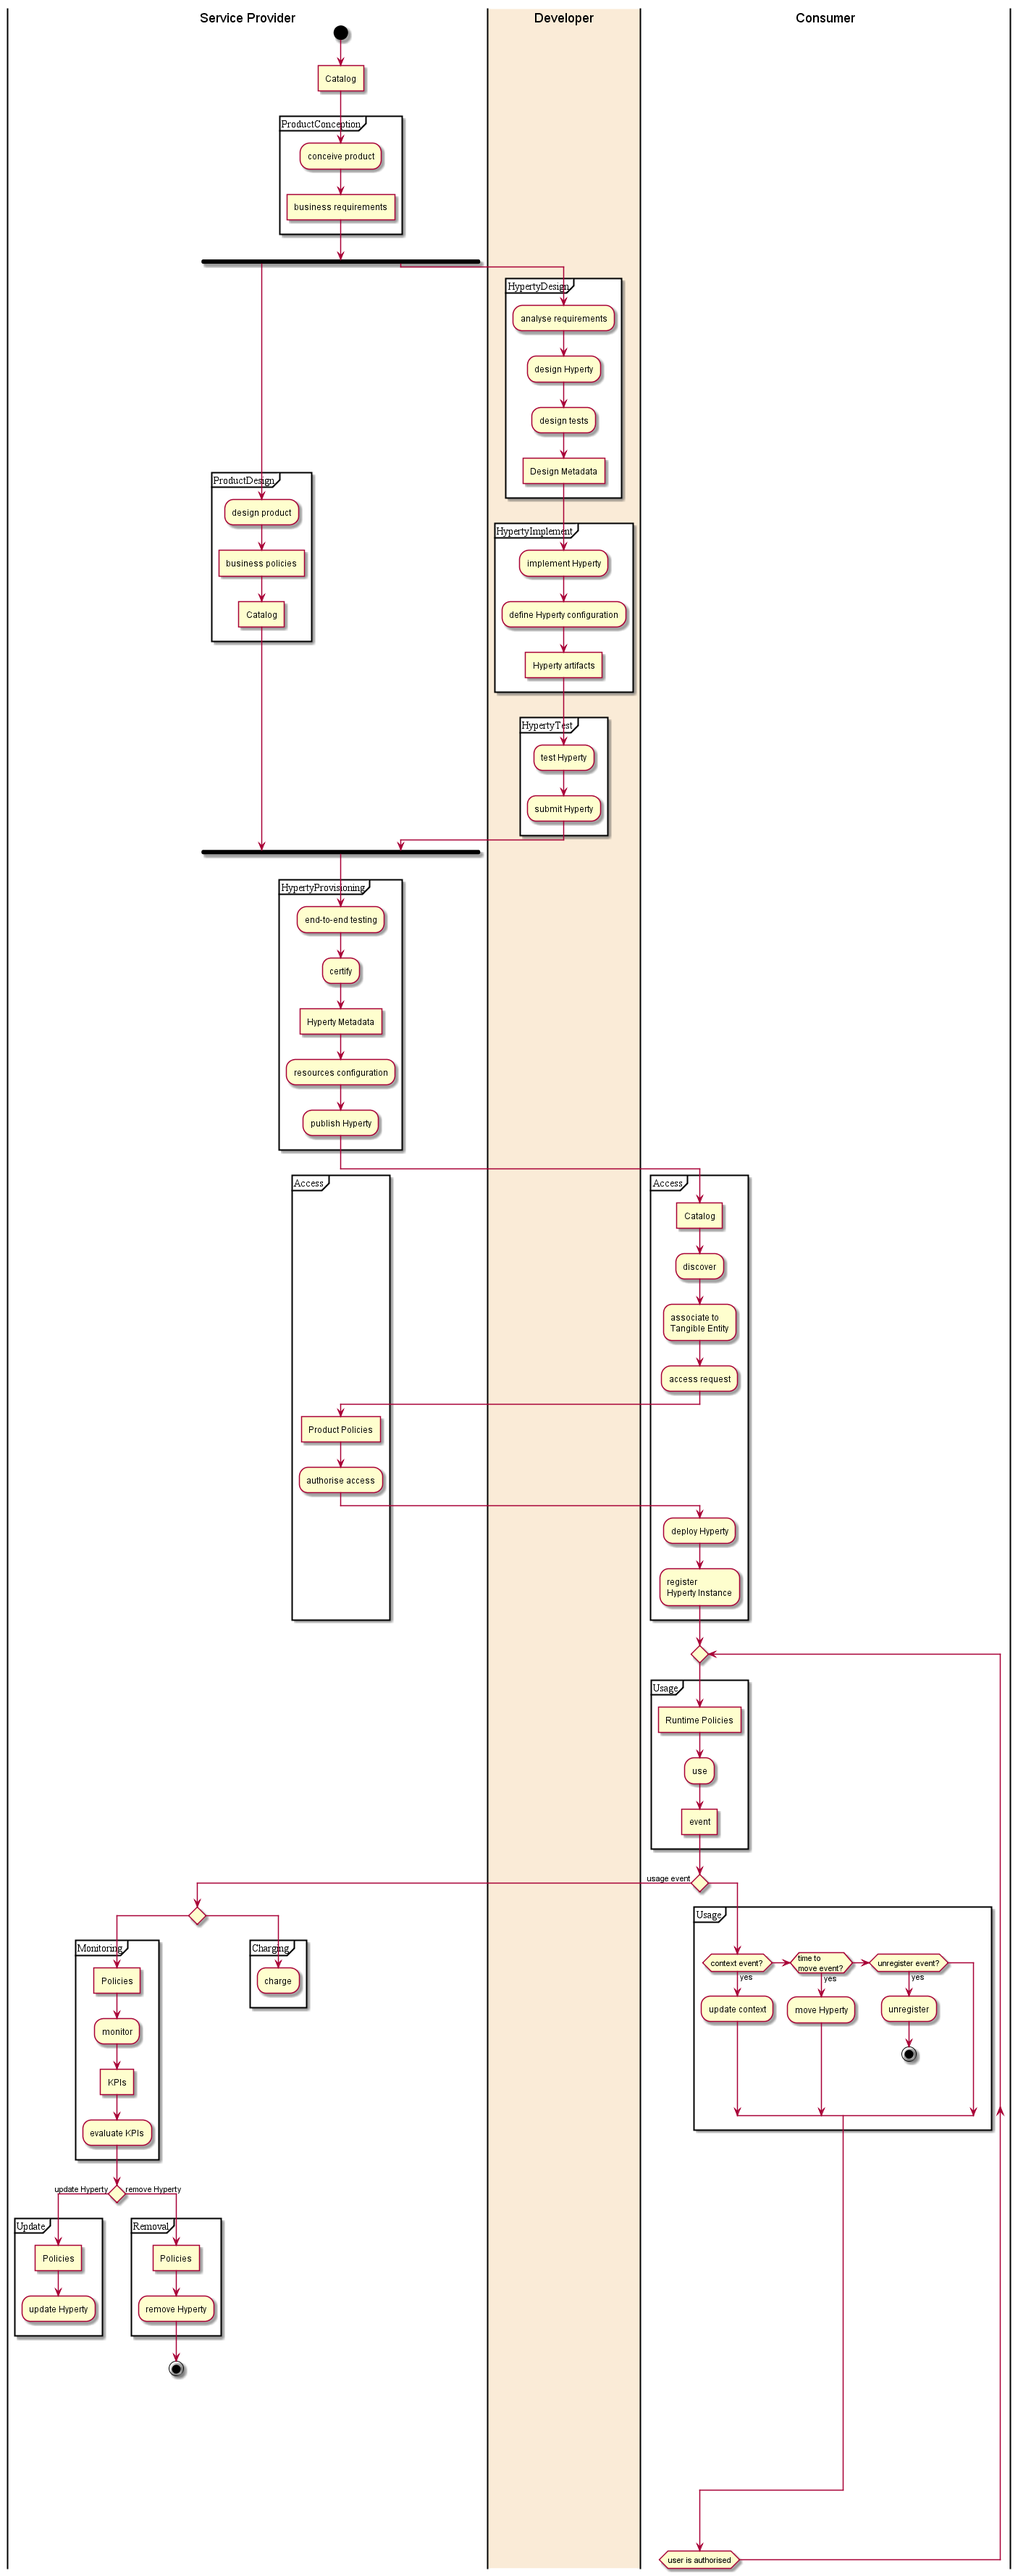
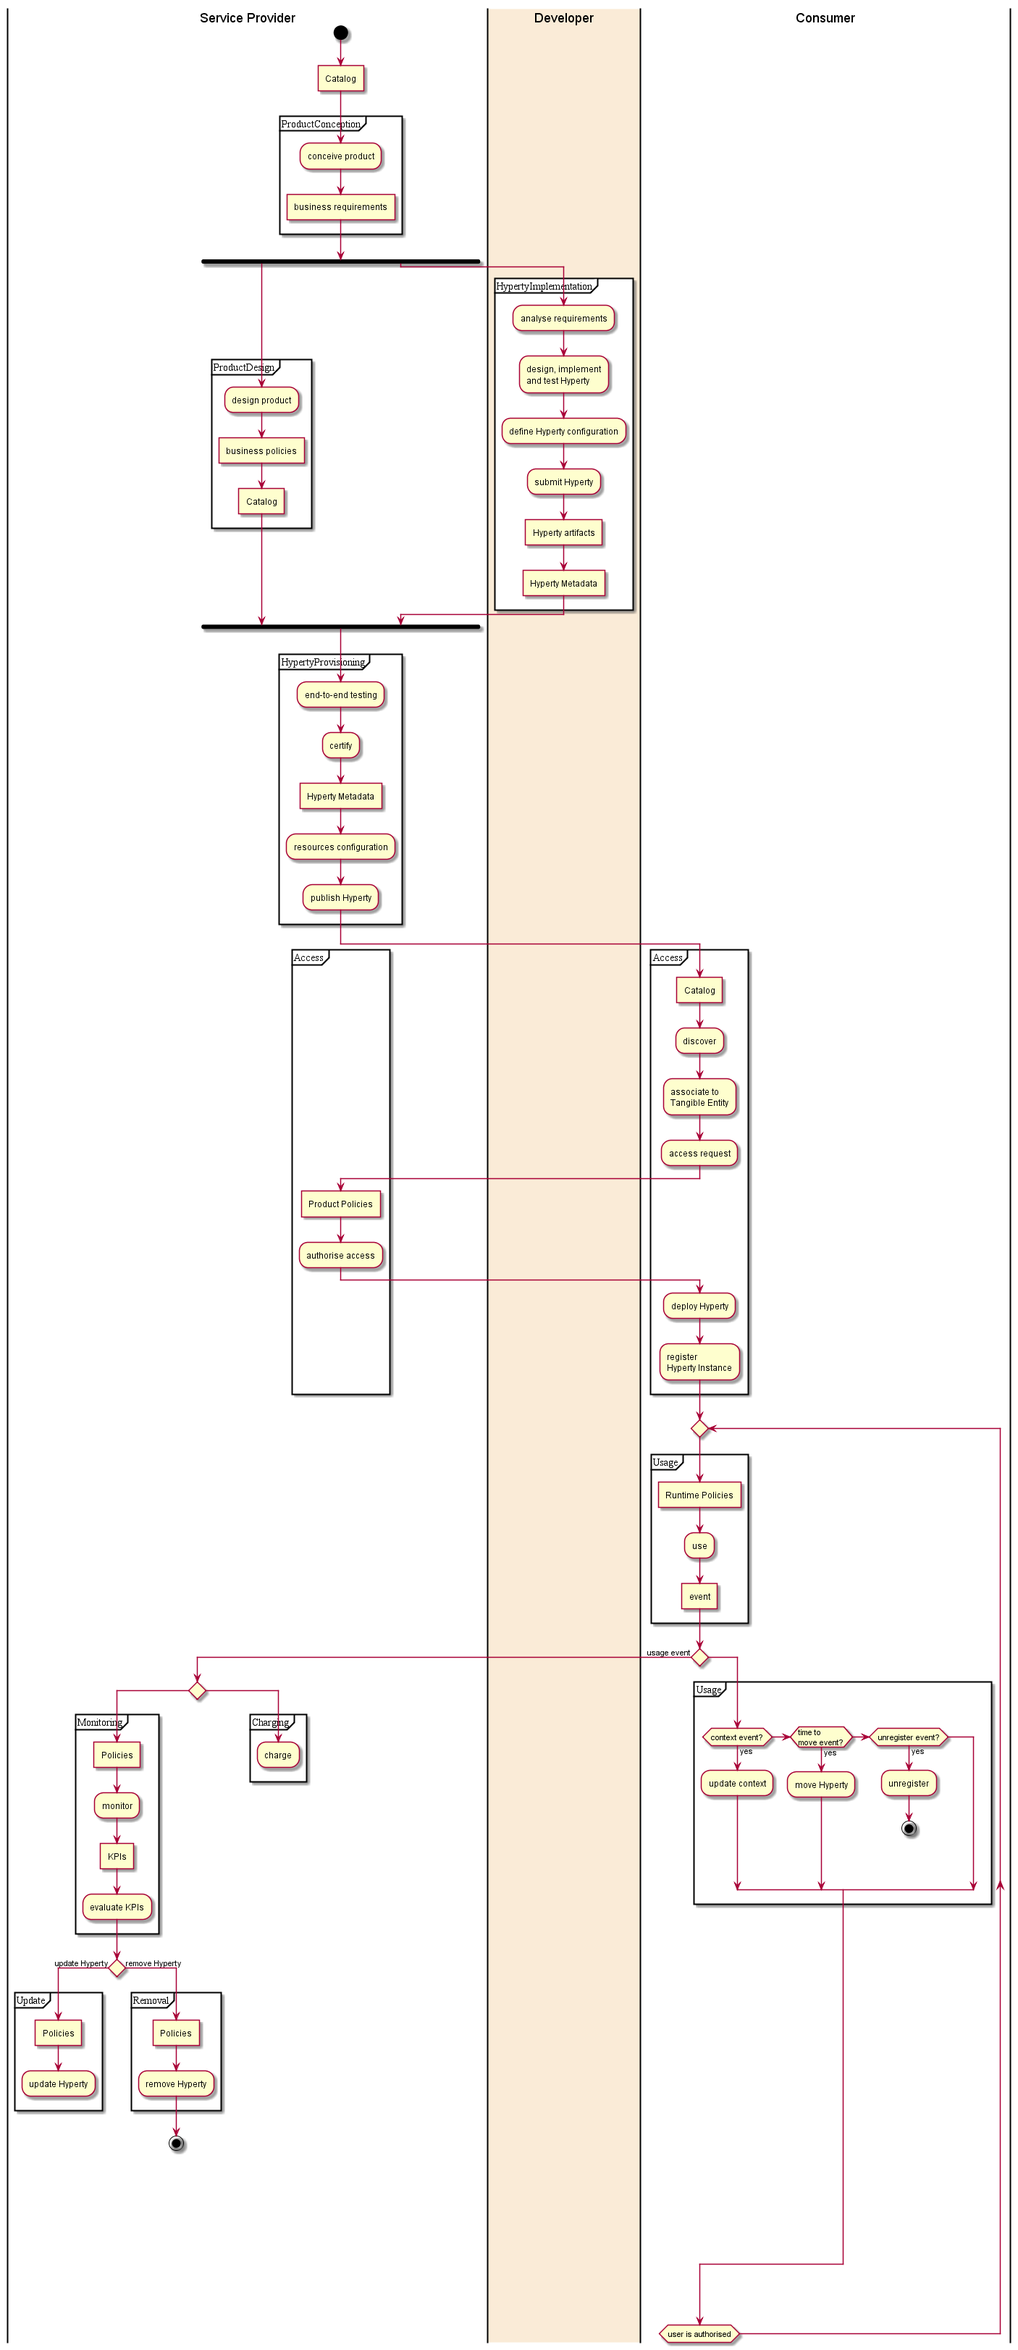
hyperty-life-cycle.md updated by merging designing, implementation and testing

diff --git a/docs/D1.1/business processes/hyperty-life-cycle.md b/docs/D1.1/business processes/hyperty-life-cycle.md
@@ -59,13 +59,14 @@ Hyperty Business Policies to Support Hyperties delivery are defined and Product 
 
 Semi-automation may be possible with assisting tools providing advanced search features on existing business policies.
 
-### Hyperty Design
+### Hyperty Design, Implementation and Test
 
-Developer or Designer validates and specify in detail how the Hyperty will comply with the Business requirements. 
+Developer validates and specify in detail how the Hyperty will comply with the Business requirements. 
 
-This specification should reuse as much as possible existing Hyperties specifications, including unit tests, that can be cloned or extended as a design starting point.
+The implementation and tests are done by reusing as much as possible existing source code, including unit tests, that can be cloned or extended as a starting point. Hyperties 
 
-After successful validation, the Hyperty Design Metadata is published into the Service Catalogue.
+As soon as all test cases are successful, the Hyperty is submitted to be approved by the Service Provider.
+
 
 **Note**
 
@@ -80,47 +81,14 @@ The following input is needed:
 
 **Output**
 
-•	Hyperty Design Metadata with detailed specification of the Hyperty and associated tests
-
-**Automation analysis**
-
-Semi-automation may be possible with assisting tools providing advanced search features on existing Hyperties Metadata design catalogue. 
-Full automation is possible in case there is no need to develop a new Hyperty.
-
-### Hyperty Implementation
-
-The Developer validates Hyperty Design Metadata and develops the Hyperty by reusing as much as possible existing Hyperties source code that may be extended or cloned as a development starting point.
-
-**Input**
-
-•	Hyperty Design Metadata
-•	Hyperty Catalogue
-
-**Output**
-
-•	Hyperty Artifacts including source code, test cases and hyperty configuration data
+•	Hyperty Metadata with description of the Hyperty 
+•	Hyperty Artifacts including source code, test cases and testing reports, hyperty configuration requirements and data
 •	Updated Hyperty Catalogue
 
 **Automation analysis**
 
 Semi-automation may be possible with assisting tools providing advanced search features on existing Hyperty catalogue. 
 Full automation may also be possible depending on the Hyperty complexity by reusing reusable Hyperty components (to be validated in T3.4).
-
-### Hyperty Testing
-
-Hyperty is tested according to executable test cases provided during Hyperty implementation. As soon as all test cases are successful, the Hyperty is submitted to be approved by the Service Provider.
-
-**input**
-
-* Hyperty artifacts including executable test cases
-
-**output**
-
-* testing reports
-
-**Automation analysis**
-
-Full automation of Hyperty testing should be possible.
 
 ### Hyperty Provisioning
 
@@ -186,25 +154,24 @@ If access is granted, Hyperty is deployed into user device runtime, instantiated
 
 Hyperty instance is used by the user, according to associated policies that are enforced localy or remotely according to associated usage events triggered by the Hyperty instance execution.
 
-Hyperty instance may move to another device on user request or automaticaly on certain conditions (e.g. smartphone battery load is low) according to operational policies (not shown in the diagram). Hyperty instance move and resume will imply a change in the Hyperty Instance status.
+Hyperty instance may move to another device on user request or automaticaly on certain conditions (e.g. smartphone battery load is low) according to operational policies. Hyperty instance move and resume will imply a change in the Hyperty Instance status.
 
-Hyperty instance may dye on user request or automaticaly on certain conditions (e.g. keep-alive events are not received by the registry due to network connectivity problems) according to operational policies (not shown in the diagram). In this case the Hyperty instance is unregister from the Hyperty registry. *question: what about situations where Hyperties instance may run without connectivity?*
+Hyperty instance may be removed on user request or automaticaly on certain conditions (e.g. keep-alive events are not received by the registry due to network connectivity problems) according to operational policies. In this case the Hyperty instance is unregister from the Hyperty registry. *question: what about situations where Hyperties instance may run without connectivity?*
 
 **input**
 
 * Hyperty Operation Metadata
 * Hyperty instance address
-* Hyperty Usage Policies
+* Hyperty Runtime Policies
 
 **output**
 
-* Hyperty registry updated with Hyperty Instance Usage Events including unregistering
+* Hyperty registry updated with Hyperty Instance Events including unregistering
 
 **question:** should include additional activities for:
 
 1. Hyperty Instance discovery 
 1. Communication between Hyperty Instances?
-1. Hyperty Instance context updated (e.g. when it moves)
 
 
 ### Hyperty Instance Charging
@@ -262,22 +229,14 @@ partition ProductDesign {
 	fork again
 
 |#AntiqueWhite|Developer|
-partition HypertyDesign {
+
+partition HypertyImplementation {
 	:analyse requirements;
-    :design Hyperty;
-    :design tests;
-    :Design Metadata]
-}
-
-partition HypertyImplement {
-    :implement Hyperty;
+    :design, implement\nand test Hyperty;
     :define Hyperty configuration;
-    :Hyperty artifacts]
-}
-
-partition HypertyTest {
-    :test Hyperty;
     :submit Hyperty;
+    :Hyperty artifacts]
+    :Hyperty Metadata]
 }
 
 |Service Provider|
